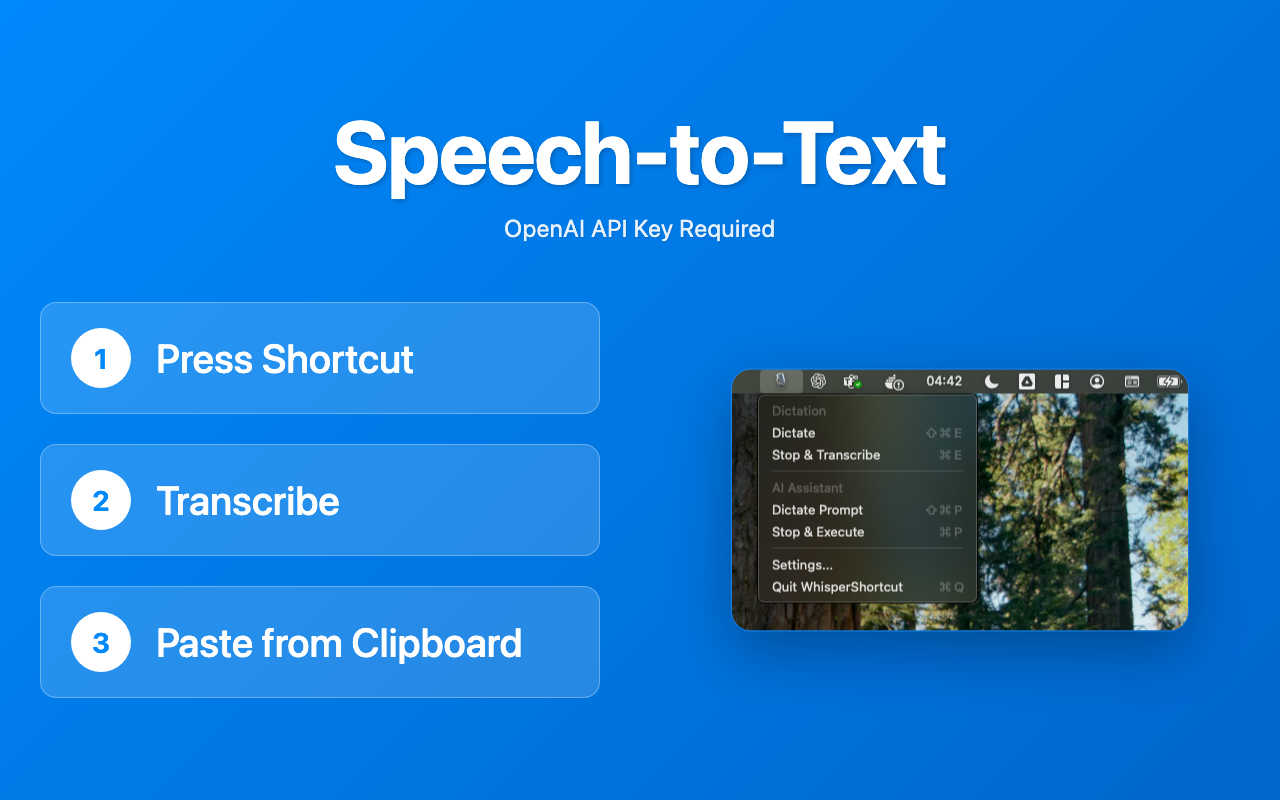
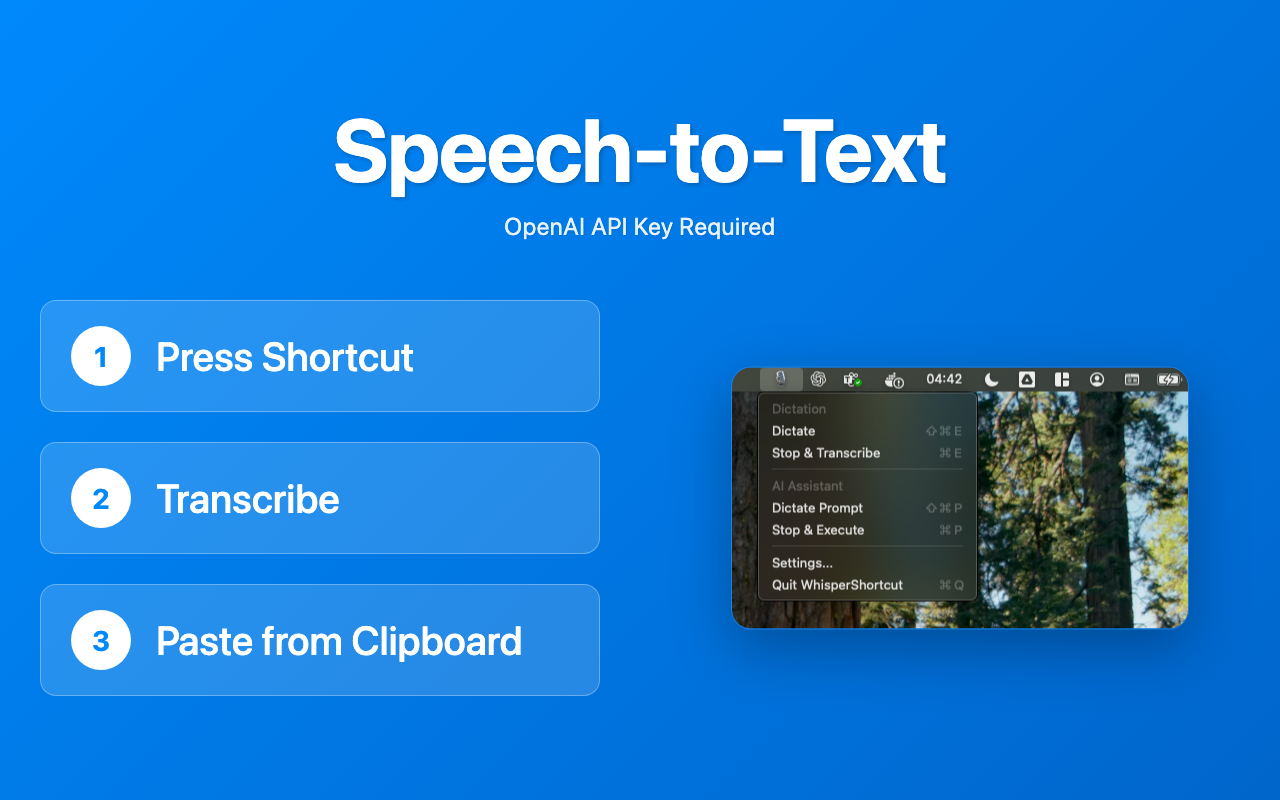
Improve screenshots.

diff --git a/screenshots/prompt-screenshot.html b/screenshots/prompt-screenshot.html
@@ -18,10 +18,10 @@
             font-family: -apple-system, BlinkMacSystemFont, 'Segoe UI', Roboto, sans-serif;
             display: flex;
             flex-direction: column;
-            justify-content: center;
             align-items: center;
             min-height: 100vh;
             padding: 40px;
+            padding-top: 100px;
         }
 
         .header {
@@ -59,38 +59,37 @@
         .steps {
             display: flex;
             flex-direction: column;
-            gap: 25px;
+            gap: 15px;
             flex: 1;
             max-width: 600px;
-            margin-bottom: 40px;
         }
 
         .step {
             display: flex;
             align-items: center;
-            gap: 25px;
-            padding: 20px 25px;
+            gap: 20px;
+            padding: 15px 20px;
             background: rgba(255, 255, 255, 0.15);
             border-radius: 16px;
             border: 1px solid rgba(255, 255, 255, 0.3);
         }
 
         .step-number {
-            width: 50px;
-            height: 50px;
+            width: 40px;
+            height: 40px;
             background: #ffffff;
             border-radius: 50%;
             display: flex;
             align-items: center;
             justify-content: center;
-            font-size: 24px;
+            font-size: 20px;
             font-weight: 700;
             color: #0089fb;
             flex-shrink: 0;
         }
 
         .step-text {
-            font-size: 32px;
+            font-size: 28px;
             font-weight: 500;
             color: #ffffff;
         }
@@ -137,7 +136,7 @@
 
 <body>
     <div class="header">
-        <h1 class="app-title">Dictate Prompt</h1>
+        <h1 class="app-title">Speech-to-Prompt</h1>
         <p class="app-subtitle">Voice + Selected Text → AI Response</p>
     </div>
 

diff --git a/screenshots/index.html b/screenshots/index.html
@@ -18,10 +18,10 @@
             font-family: -apple-system, BlinkMacSystemFont, 'Segoe UI', Roboto, sans-serif;
             display: flex;
             flex-direction: column;
-            justify-content: center;
             align-items: center;
             min-height: 100vh;
             padding: 40px;
+            padding-top: 100px;
         }
 
         .header {
